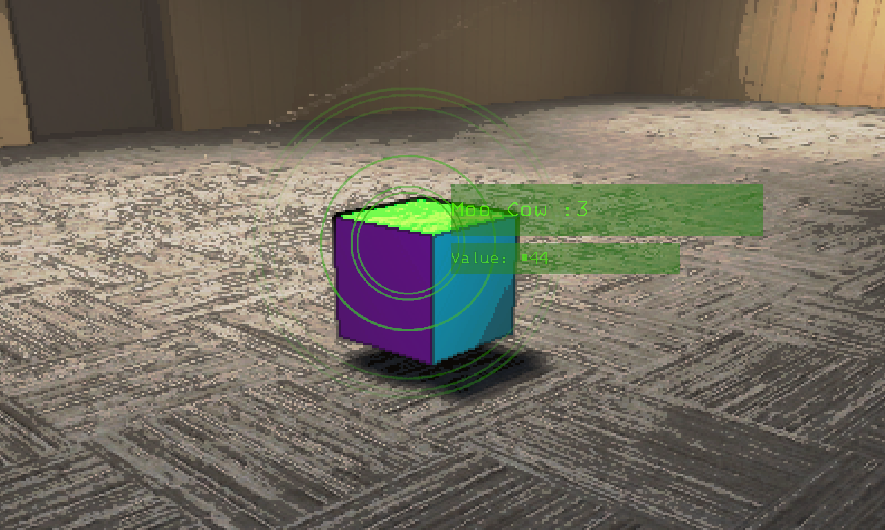
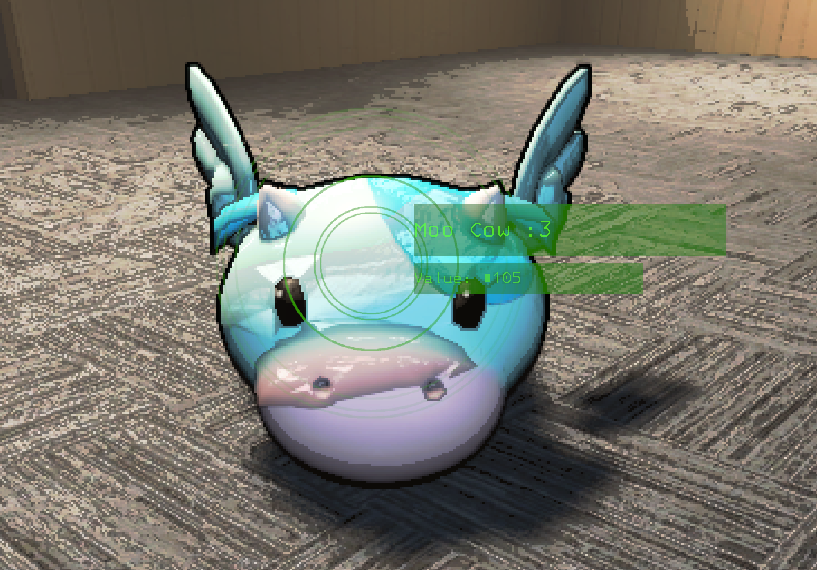
Updated version and CHANGELOG.md to reflect mod additions

diff --git a/PluginMain.cs b/PluginMain.cs
@@ -15,7 +15,7 @@ namespace LCWildCardMod
     {
         private const string modGUID = "deB.WildCard";
         private const string modName = "WILDCARD Stuff";
-        private const string modVersion = "0.0.4";
+        private const string modVersion = "0.1.0";
         private readonly Harmony harmony = new Harmony(modGUID);
         private static WildCardMod Instance;
         internal static WildCardConfig ModConfig {get; private set;} = null!;

diff --git a/CHANGELOG.md b/CHANGELOG.md
@@ -1,3 +1,8 @@
+## 0.1.0
+- Finished Moo Cow model, gave Wormted Poster some bonus polygons
+- Fixed up prefab scaling
+- Updated README
+
 ## 0.0.4
 - Fixed scrap audio being global
 - Updated README
